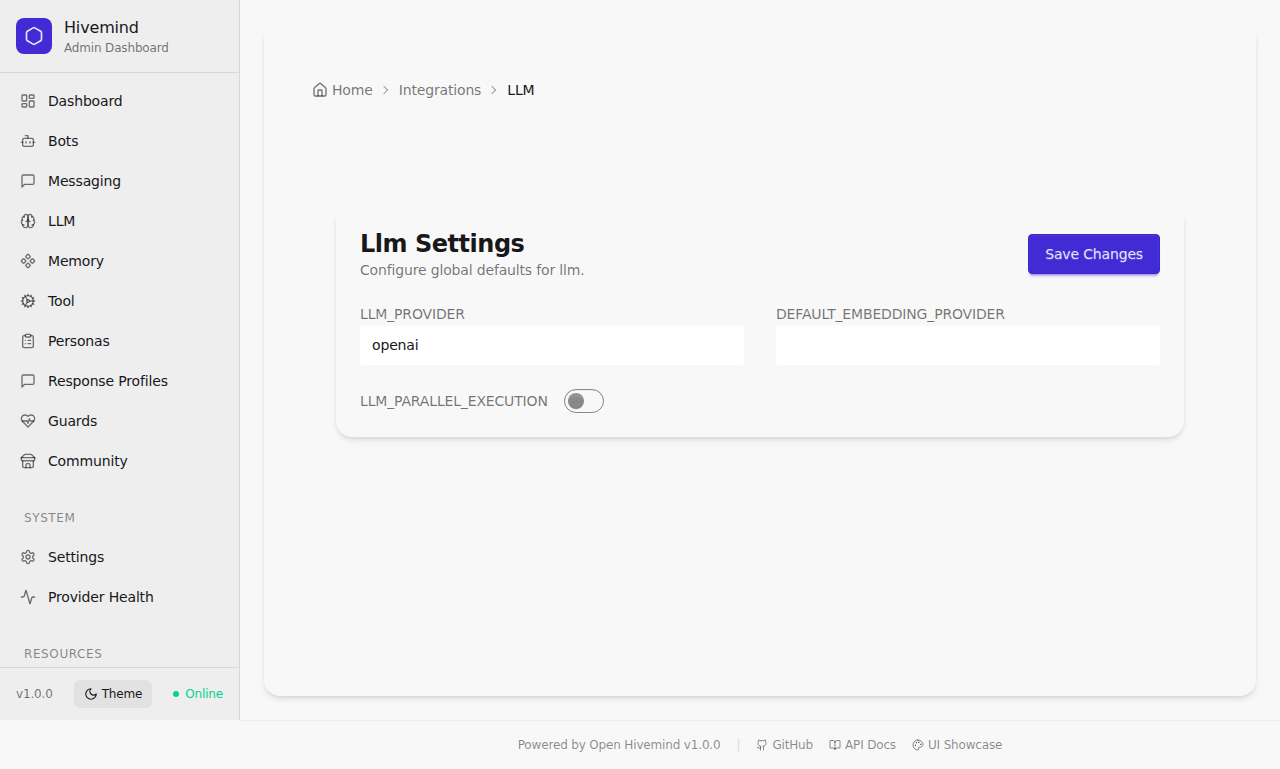
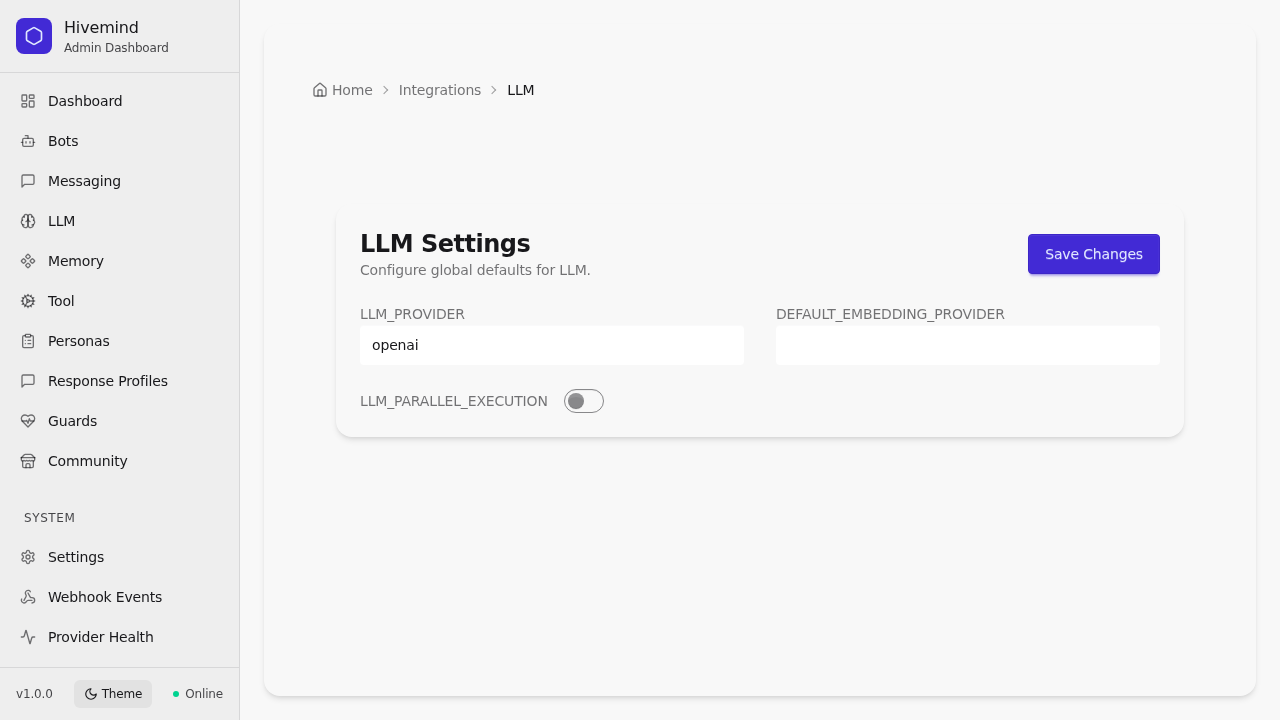
fix(ui): capitalize LLM/MCP acronyms in global config section headings (#3070)
GlobalConfigSection rendered "{section} Settings" with CSS `capitalize`, so the
LLM integration settings page showed "Llm Settings" / "Configure global
defaults for llm." (and MCP would show "Mcp"). Add an acronym-aware label
(LLM/MCP/API/AI mapped to proper casing; others title-cased) and use it for
both the title and description.

Regenerate the integrations-llm screenshot (now "LLM Settings"), archiving the
old "Llm" version per the screenshot convention.

Pull request: fix(ui): capitalize LLM/MCP acronyms in config-section headings
Lowest of this screenshot batch (`integrations-llm`) had a real **code** defect: the LLM integration settings page rendered **"Llm Settings"** and *"Configure global defaults for llm."*

`GlobalConfigSection` built the heading as `{section} Settings` with CSS `capitalize`, which title-cases the first letter only → `llm`→`Llm`, `mcp`→`Mcp`. Added an acronym-aware label (LLM/MCP/API/AI → proper casing; others title-cased) for both the title and description.

Now renders **"LLM Settings" / "Configure global defaults for LLM."** Regenerated the screenshot (archived the old "Llm" version per the screenshot convention). Client `tsc` clean.

🤖 Generated with [Claude Code](https://claude.com/claude-code)

diff --git a/src/client/src/components/GlobalConfigSection.tsx b/src/client/src/components/GlobalConfigSection.tsx
@@ -231,13 +231,20 @@ const GlobalConfigSection: React.FC<GlobalConfigSectionProps> = ({ section }) =>
 
   const currentValues = getValues();
 
+  // Acronym-aware display label: CSS `capitalize` turns "llm" into "Llm" and
+  // "mcp" into "Mcp". Map known acronyms to their proper casing; title-case the
+  // rest (discord/slack/memory/tool/...).
+  const ACRONYMS: Record<string, string> = { llm: 'LLM', mcp: 'MCP', api: 'API', ai: 'AI' };
+  const sectionLabel =
+    ACRONYMS[section.toLowerCase()] ?? section.charAt(0).toUpperCase() + section.slice(1);
+
   return (
     <Card className="shadow-xl border border-base-200">
       <form onSubmit={handleSubmit(onSubmit)}>
           <div className="flex flex-wrap justify-between items-center gap-3 mb-6">
             <div>
-              <Card.Title className="text-2xl capitalize">{section} Settings</Card.Title>
-              <p className="text-base-content/60 text-sm">Configure global defaults for {section}.</p>
+              <Card.Title className="text-2xl">{sectionLabel} Settings</Card.Title>
+              <p className="text-base-content/60 text-sm">Configure global defaults for {sectionLabel}.</p>
             </div>
             <div className="flex flex-wrap items-center gap-2">
               {isMessageProviderSection && (